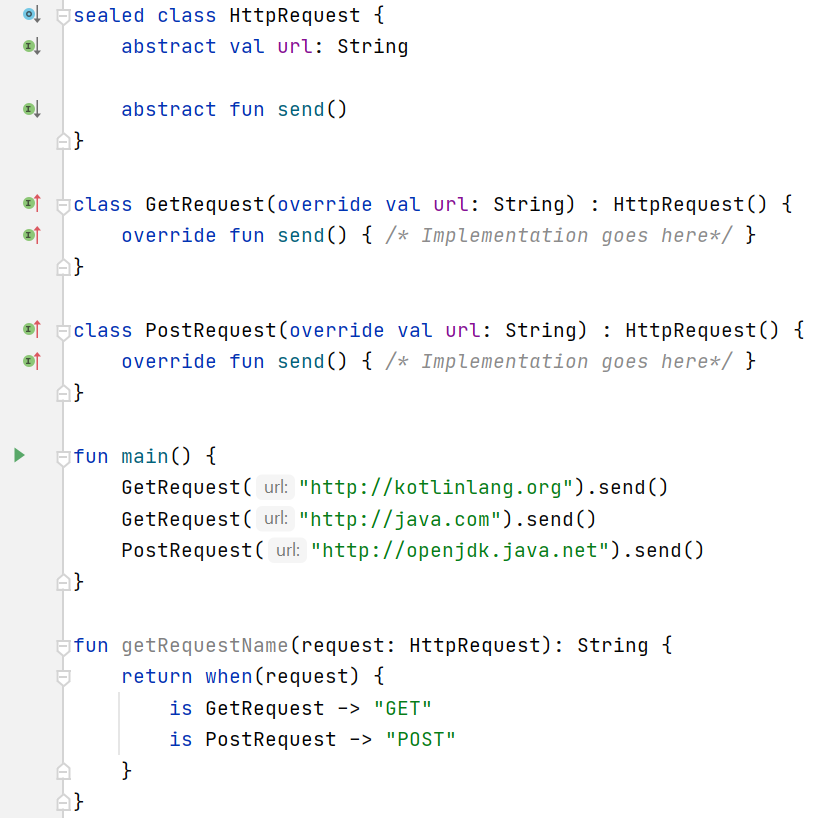
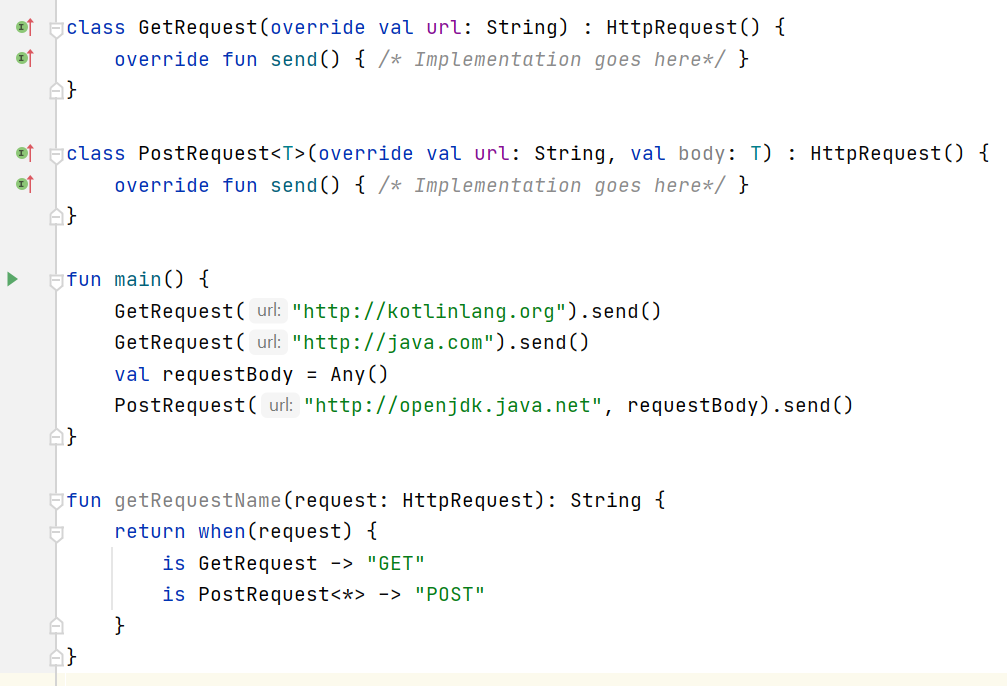
more code snippets

diff --git a/modkotlin/src/main/kotlin/logeeknight/Slide20SealedClass.kt b/modkotlin/src/main/kotlin/logeeknight/Slide20SealedClass.kt
@@ -10,19 +10,20 @@ class GetRequest(override val url: String) : HttpRequest() {
     override fun send() { /* Implementation goes here*/ }
 }
 
-class PostRequest(override val url: String) : HttpRequest() {
+class PostRequest<T>(override val url: String, val body: T) : HttpRequest() {
     override fun send() { /* Implementation goes here*/ }
 }
 
 fun main() {
     GetRequest("http://kotlinlang.org").send()
     GetRequest("http://java.com").send()
-    PostRequest("http://openjdk.java.net").send()
+    val requestBody = Any()
+    PostRequest("http://openjdk.java.net", requestBody).send()
 }
 
 fun getRequestName(request: HttpRequest): String {
     return when(request) {
         is GetRequest -> "GET"
-        is PostRequest -> "POST"
+        is PostRequest<*> -> "POST"
     }
 }

diff --git a/modkotlin/src/main/kotlin/logeeknight/Slide11Syntax.kt b/modkotlin/src/main/kotlin/logeeknight/Slide11Syntax.kt
@@ -1,0 +1,28 @@
+package logeeknight
+
+data class ConferenceMember(
+    val name: String,
+    val lastName: String,
+    val role: Role = Role.LISTENER
+)
+
+enum class Role {
+    SPEAKER,
+    LISTENER
+}
+
+fun printMember(member: ConferenceMember) {
+    val (name, lastName) = member
+    val role = when(member.role) {
+        Role.SPEAKER -> "Speaker"
+        Role.LISTENER -> "Listener"
+    }
+
+    println("Name: $name, lastName: $lastName, role: $role")
+}
+
+fun printOdd(members: List<ConferenceMember>) {
+    for (i in 1 until members.size step 2) {
+        printMember(members[i])
+    }
+}

diff --git a/modkotlin/src/main/kotlin/logeeknight/Slide18Collections.kt b/modkotlin/src/main/kotlin/logeeknight/Slide18Collections.kt
@@ -1,0 +1,19 @@
+package logeeknight
+
+data class Person(
+    val name: String,
+    val lastName: String
+)
+
+fun findNamesIndices(name: String, people: List<Person>?): List<Int> {
+    if (people.isNullOrEmpty()) {
+        //people.add(Person("Igor", "Katamaranov")) Not allowed to do that, list is immutable!
+        return emptyList()
+    }
+
+    return people.withIndex().filter { it.value.name == name }.map { it.index }
+}
+
+fun findTwoNameIndices(first: String, second: String, people: List<Person>?): List<Int> {
+    return findNamesIndices(first, people) + findNamesIndices(second, people)
+}

diff --git a/modkotlin/src/main/kotlin/logeeknight/Slide23Delegation.kt b/modkotlin/src/main/kotlin/logeeknight/Slide23Delegation.kt
@@ -1,0 +1,19 @@
+package logeeknight
+
+interface DbConnection {
+    fun select()
+
+    fun update()
+}
+
+class DbConnectionWithTransactions(db: DbConnection) : DbConnection by db {
+    override fun update() { /*Implementation with transactions */}
+}
+
+class DelegationExample {
+    val test: String by lazy { heavyMethod() }
+
+    private fun heavyMethod(): String {
+        return "Took a lot of time to compute"
+    }
+}
